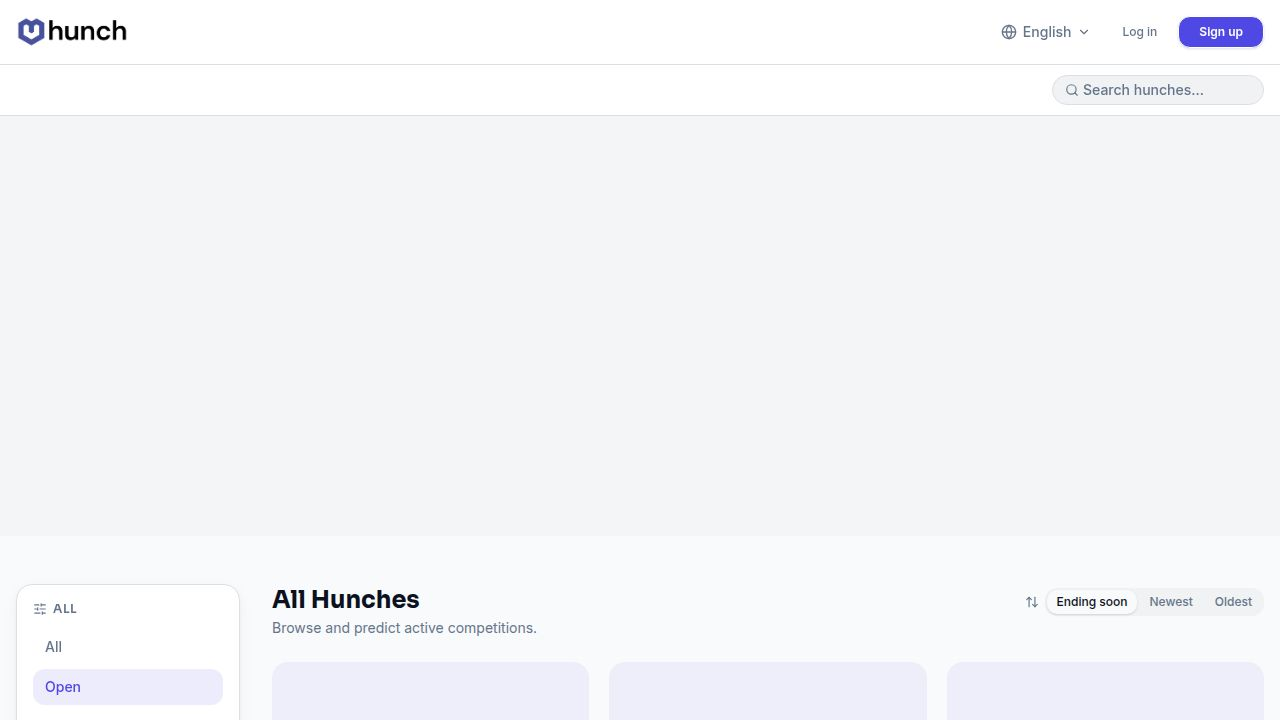
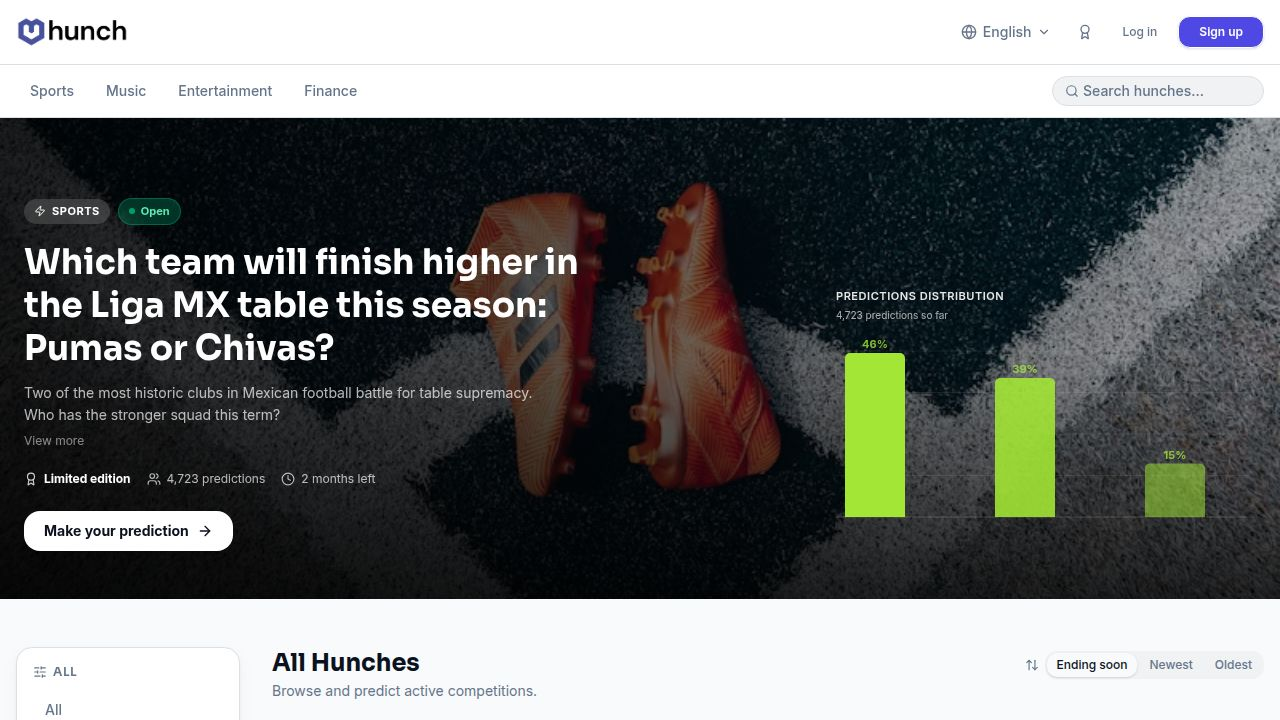
Add daily user prediction activity chart to admin metrics
Adds a new API endpoint to fetch daily, weekly, and monthly prediction data. Updates the admin metrics page to display a chart visualizing this data, including summary statistics.

Replit-Commit-Author: Agent
Replit-Commit-Session-Id: 7e666260-70f8-49ed-89f0-1ce9f9b526f4
Replit-Commit-Checkpoint-Type: full_checkpoint
Replit-Commit-Event-Id: 4a039253-07be-4f9b-a86a-5ea741bd670e
Replit-Commit-Screenshot-Url: https://storage.googleapis.com/screenshot-production-us-central1/4ce0d22d-62c3-4f02-9776-44ab9113e667/7e666260-70f8-49ed-89f0-1ce9f9b526f4/66bGg4L
Replit-Helium-Checkpoint-Created: true

diff --git a/artifacts/hunches/src/pages/backstage/metrics.tsx b/artifacts/hunches/src/pages/backstage/metrics.tsx
@@ -1,10 +1,12 @@
 import { useState, useEffect } from "react";
 import { AdminLayout } from "@/components/admin-layout";
 import { useAdminAuth, adminFetch } from "./dashboard";
-import { Users, TrendingUp, TrendingDown, Minus, Activity, UsersRound, CreditCard, UserCheck } from "lucide-react";
+import { Users, TrendingUp, TrendingDown, Minus, Activity, UsersRound, CreditCard, UserCheck, Target } from "lucide-react";
 import {
   AreaChart,
   Area,
+  BarChart,
+  Bar,
   LineChart,
   Line,
   XAxis,
@@ -47,6 +49,21 @@ interface ActiveUsersData {
 }
 
 type AuView = "dau" | "wau" | "mau";
+
+interface PredictionsMetricsData {
+  stats: {
+    total: number;
+    today: number;
+    thisWeek: number;
+    thisMonth: number;
+    peakDay: { label: string; count: number } | null;
+  };
+  daily:   { label: string; iso: string; count: number }[];
+  weekly:  { label: string; count: number }[];
+  monthly: { label: string; count: number }[];
+}
+
+type PredView = "daily" | "weekly" | "monthly";
 
 // ── Constants ─────────────────────────────────────────────────────────────────
 
@@ -135,6 +152,18 @@ const AuTooltip = ({ active, payload, label }: { active?: boolean; payload?: { v
   );
 };
 
+const PredTooltip = ({ active, payload, label }: { active?: boolean; payload?: { value?: number }[]; label?: string }) => {
+  if (!active || !payload?.length) return null;
+  return (
+    <div className="bg-white border border-gray-200 rounded-xl shadow-lg px-4 py-3">
+      <p className="text-xs font-semibold text-gray-500 mb-1">{label}</p>
+      <p className="text-lg font-bold text-orange-600">
+        {(payload[0].value ?? 0).toLocaleString()} <span className="text-sm font-normal text-gray-500">predicciones</span>
+      </p>
+    </div>
+  );
+};
+
 // ── Skeleton ──────────────────────────────────────────────────────────────────
 
 function StatSkeleton() {
@@ -157,6 +186,19 @@ export default function AdminMetrics() {
   const [auView, setAuView] = useState<AuView>("dau");
   const [auData, setAuData] = useState<ActiveUsersData | null>(null);
   const [auLoading, setAuLoading] = useState(true);
+
+  // Daily predictions state
+  const [predView, setPredView] = useState<PredView>("daily");
+  const [predData, setPredData] = useState<PredictionsMetricsData | null>(null);
+  const [predLoading, setPredLoading] = useState(true);
+
+  useEffect(() => {
+    setPredLoading(true);
+    adminFetch("/admin/metrics/predictions")
+      .then(async (r) => { if (!r.ok) throw new Error(`${r.status}`); return r.json() as Promise<PredictionsMetricsData>; })
+      .then((d) => { setPredData(d); setPredLoading(false); })
+      .catch(() => setPredLoading(false));
+  }, []);
 
   useEffect(() => {
     setRegLoading(true);
@@ -600,9 +642,142 @@ export default function AdminMetrics() {
             <span className="text-xs font-bold uppercase tracking-widest text-gray-400">Actividades</span>
             <div className="flex-1 h-px bg-gray-200" />
           </div>
-          <div className="bg-white border border-dashed border-gray-200 rounded-2xl py-14 flex items-center justify-center">
-            <p className="text-sm text-gray-400">Próximamente</p>
-          </div>
+
+          {/* ── Predicciones diarias ── */}
+          <section>
+            <div className="flex items-center gap-2 mb-5">
+              <div className="w-7 h-7 bg-orange-100 rounded-lg flex items-center justify-center">
+                <Target className="w-4 h-4 text-orange-500" />
+              </div>
+              <div>
+                <h2 className="text-base font-bold text-gray-800">Predicciones</h2>
+                <p className="text-xs text-gray-400 mt-0.5">Predicciones realizadas por los usuarios desde el primer día</p>
+              </div>
+            </div>
+
+            {/* Stat cards */}
+            <div className="grid grid-cols-2 sm:grid-cols-5 gap-4 mb-6">
+              <div className="bg-white border border-gray-200 rounded-2xl p-5 sm:col-span-1">
+                <p className="text-xs font-semibold text-gray-400 uppercase tracking-wide mb-2">Total</p>
+                {predLoading ? <StatSkeleton /> : (
+                  <span className="text-3xl font-bold text-gray-900">{(predData?.stats.total ?? 0).toLocaleString()}</span>
+                )}
+                <p className="text-xs text-gray-400 mt-1">all time</p>
+              </div>
+              <div className="bg-white border border-gray-200 rounded-2xl p-5">
+                <p className="text-xs font-semibold text-gray-400 uppercase tracking-wide mb-2">Hoy</p>
+                {predLoading ? <StatSkeleton /> : (
+                  <span className="text-3xl font-bold text-gray-900">{(predData?.stats.today ?? 0).toLocaleString()}</span>
+                )}
+                <p className="text-xs text-gray-400 mt-1">desde 00:00 UTC</p>
+              </div>
+              <div className="bg-white border border-gray-200 rounded-2xl p-5">
+                <p className="text-xs font-semibold text-gray-400 uppercase tracking-wide mb-2">Esta semana</p>
+                {predLoading ? <StatSkeleton /> : (
+                  <span className="text-3xl font-bold text-gray-900">{(predData?.stats.thisWeek ?? 0).toLocaleString()}</span>
+                )}
+                <p className="text-xs text-gray-400 mt-1">lunes–hoy</p>
+              </div>
+              <div className="bg-white border border-gray-200 rounded-2xl p-5">
+                <p className="text-xs font-semibold text-gray-400 uppercase tracking-wide mb-2">Este mes</p>
+                {predLoading ? <StatSkeleton /> : (
+                  <span className="text-3xl font-bold text-gray-900">{(predData?.stats.thisMonth ?? 0).toLocaleString()}</span>
+                )}
+                <p className="text-xs text-gray-400 mt-1">mes en curso</p>
+              </div>
+              <div className="bg-white border border-orange-100 rounded-2xl p-5">
+                <p className="text-xs font-semibold text-orange-500 uppercase tracking-wide mb-2">Día pico</p>
+                {predLoading ? <StatSkeleton /> : predData?.stats.peakDay ? (
+                  <>
+                    <span className="text-3xl font-bold text-gray-900">{predData.stats.peakDay.count.toLocaleString()}</span>
+                    <p className="text-xs text-gray-400 mt-1 truncate">{predData.stats.peakDay.label}</p>
+                  </>
+                ) : (
+                  <span className="text-3xl font-bold text-gray-900">—</span>
+                )}
+              </div>
+            </div>
+
+            {/* Chart */}
+            <div className="bg-white border border-gray-200 rounded-2xl p-6">
+              {/* View tabs */}
+              <div className="flex items-center justify-between mb-5">
+                <div className="flex gap-1">
+                  {([ { value: "daily", label: "Diario" }, { value: "weekly", label: "Semanal" }, { value: "monthly", label: "Mensual" } ] as { value: PredView; label: string }[]).map((v) => (
+                    <button
+                      key={v.value}
+                      onClick={() => setPredView(v.value)}
+                      className={`px-3 py-1.5 rounded-lg text-xs font-semibold transition-colors ${
+                        predView === v.value
+                          ? "bg-orange-500 text-white"
+                          : "text-gray-500 hover:bg-gray-100 hover:text-gray-800"
+                      }`}
+                    >
+                      {v.label}
+                    </button>
+                  ))}
+                </div>
+                <p className="text-xs text-gray-400">
+                  {predView === "daily" ? "Desde el primer día" : predView === "weekly" ? "Desde la primera semana" : "Desde el primer mes"}
+                </p>
+              </div>
+
+              {predLoading ? (
+                <div className="h-72 flex items-center justify-center">
+                  <div className="text-sm text-gray-400">Cargando gráfica...</div>
+                </div>
+              ) : (() => {
+                const chartData = predData?.[predView] ?? [];
+                if (chartData.length === 0) {
+                  return (
+                    <div className="h-72 flex items-center justify-center">
+                      <div className="text-sm text-gray-400">Sin datos todavía</div>
+                    </div>
+                  );
+                }
+                const showDots = chartData.length <= 14;
+                return (
+                  <>
+                    <ResponsiveContainer width="100%" height={280}>
+                      <BarChart data={chartData} margin={{ top: 4, right: 4, left: -20, bottom: 0 }} barCategoryGap="30%">
+                        <defs>
+                          <linearGradient id="predGradient" x1="0" y1="0" x2="0" y2="1">
+                            <stop offset="0%"  stopColor="#f97316" stopOpacity={0.9} />
+                            <stop offset="100%" stopColor="#fb923c" stopOpacity={0.6} />
+                          </linearGradient>
+                        </defs>
+                        <CartesianGrid strokeDasharray="3 3" stroke="#f0f0f0" vertical={false} />
+                        <XAxis
+                          dataKey="label"
+                          tick={{ fontSize: 11, fill: "#9ca3af" }}
+                          tickLine={false}
+                          axisLine={false}
+                          interval={chartData.length > 60 ? Math.floor(chartData.length / 20) : "preserveStartEnd"}
+                        />
+                        <YAxis tick={{ fontSize: 11, fill: "#9ca3af" }} tickLine={false} axisLine={false} allowDecimals={false} width={36} />
+                        <Tooltip
+                          content={(props) => (
+                            <PredTooltip
+                              active={props.active}
+                              payload={props.payload as { value?: number }[]}
+                              label={props.label}
+                            />
+                          )}
+                          cursor={{ fill: "#f97316", fillOpacity: 0.08 }}
+                        />
+                        <Bar
+                          dataKey="count"
+                          fill="url(#predGradient)"
+                          radius={[4, 4, 0, 0]}
+                          maxBarSize={showDots ? 40 : 20}
+                        />
+                      </BarChart>
+                    </ResponsiveContainer>
+                  </>
+                );
+              })()}
+            </div>
+          </section>
         </div>
 
       </div>

diff --git a/artifacts/api-server/src/routes/admin.ts b/artifacts/api-server/src/routes/admin.ts
@@ -2028,6 +2028,107 @@ router.get("/admin/metrics/active-users", requireAdmin, requireAdminHeader, asyn
   }
 });
 
+// ─── Admin: Daily predictions metrics ────────────────────────────────────────
+
+router.get("/admin/metrics/predictions", requireAdmin, requireAdminHeader, async (_req, res): Promise<void> => {
+  try {
+    const [dailyRows, weeklyRows, monthlyRows, statsRows] = await Promise.all([
+      // Daily: from first prediction to today
+      db.execute(sql.raw(`
+        SELECT
+          to_char(gs, 'Mon DD') AS label,
+          to_char(gs, 'YYYY-MM-DD') AS iso,
+          COUNT(p.id)::int AS count
+        FROM generate_series(
+          COALESCE(
+            (SELECT date_trunc('day', MIN(created_at) AT TIME ZONE 'UTC') FROM predictions),
+            date_trunc('day', now() AT TIME ZONE 'UTC')
+          ),
+          date_trunc('day', now() AT TIME ZONE 'UTC'),
+          interval '1 day'
+        ) AS gs
+        LEFT JOIN predictions p
+          ON date_trunc('day', p.created_at AT TIME ZONE 'UTC') = gs
+        GROUP BY gs, label, iso
+        ORDER BY gs
+      `)),
+      // Weekly: from first week to current week
+      db.execute(sql.raw(`
+        SELECT
+          to_char(gs, 'Mon DD') AS label,
+          COUNT(p.id)::int AS count
+        FROM generate_series(
+          COALESCE(
+            (SELECT date_trunc('week', MIN(created_at) AT TIME ZONE 'UTC') FROM predictions),
+            date_trunc('week', now() AT TIME ZONE 'UTC')
+          ),
+          date_trunc('week', now() AT TIME ZONE 'UTC'),
+          interval '1 week'
+        ) AS gs
+        LEFT JOIN predictions p
+          ON date_trunc('week', p.created_at AT TIME ZONE 'UTC') = gs
+        GROUP BY gs, label
+        ORDER BY gs
+      `)),
+      // Monthly: from first month to current month
+      db.execute(sql.raw(`
+        SELECT
+          to_char(gs, 'Mon YY') AS label,
+          COUNT(p.id)::int AS count
+        FROM generate_series(
+          COALESCE(
+            (SELECT date_trunc('month', MIN(created_at) AT TIME ZONE 'UTC') FROM predictions),
+            date_trunc('month', now() AT TIME ZONE 'UTC')
+          ),
+          date_trunc('month', now() AT TIME ZONE 'UTC'),
+          interval '1 month'
+        ) AS gs
+        LEFT JOIN predictions p
+          ON date_trunc('month', p.created_at AT TIME ZONE 'UTC') = gs
+        GROUP BY gs, label
+        ORDER BY gs
+      `)),
+      // Summary stats
+      db.execute(sql.raw(`
+        SELECT
+          (SELECT COUNT(*)::int FROM predictions) AS total,
+          (SELECT COUNT(*)::int FROM predictions
+            WHERE created_at >= date_trunc('day', now() AT TIME ZONE 'UTC')) AS today,
+          (SELECT COUNT(*)::int FROM predictions
+            WHERE created_at >= date_trunc('week', now() AT TIME ZONE 'UTC')) AS this_week,
+          (SELECT COUNT(*)::int FROM predictions
+            WHERE created_at >= date_trunc('month', now() AT TIME ZONE 'UTC')) AS this_month
+      `)),
+    ]);
+
+    const stats = (statsRows.rows as { total: number; today: number; this_week: number; this_month: number }[])[0]
+      ?? { total: 0, today: 0, this_week: 0, this_month: 0 };
+
+    const daily = (dailyRows.rows as { label: string; iso: string; count: number }[]).map((r) => ({
+      label: r.label, iso: r.iso, count: Number(r.count),
+    }));
+
+    const peakDay = daily.length > 0
+      ? daily.reduce((best, r) => r.count > best.count ? r : best, daily[0])
+      : null;
+
+    res.json({
+      stats: {
+        total:     Number(stats.total),
+        today:     Number(stats.today),
+        thisWeek:  Number(stats.this_week),
+        thisMonth: Number(stats.this_month),
+        peakDay:   peakDay ? { label: peakDay.label, count: peakDay.count } : null,
+      },
+      daily,
+      weekly:  (weeklyRows.rows as { label: string; count: number }[]).map((r) => ({ label: r.label, count: Number(r.count) })),
+      monthly: (monthlyRows.rows as { label: string; count: number }[]).map((r) => ({ label: r.label, count: Number(r.count) })),
+    });
+  } catch (_err) {
+    res.json({ stats: { total: 0, today: 0, thisWeek: 0, thisMonth: 0, peakDay: null }, daily: [], weekly: [], monthly: [] });
+  }
+});
+
 // ─── Admin: Alert preferences ────────────────────────────────────────────────
 
 router.get(